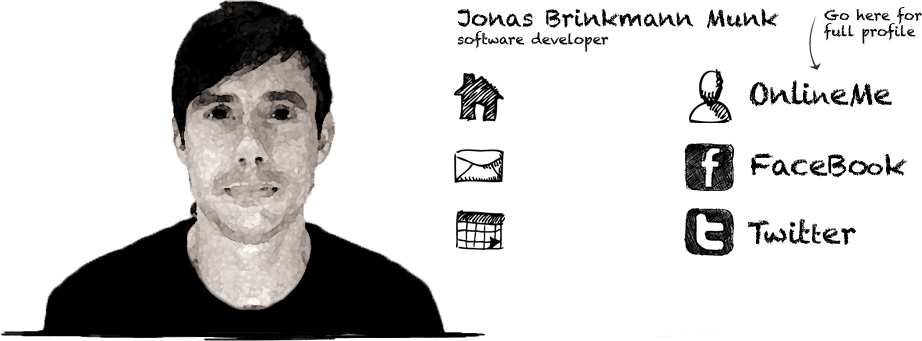
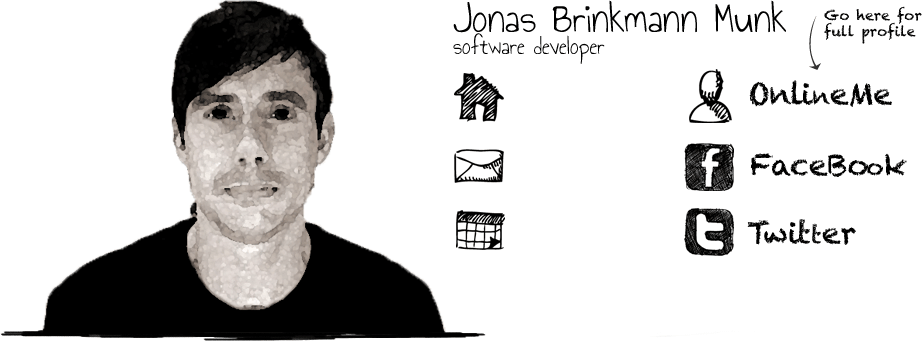
Improved jonas munk design

diff --git a/style/jonasmunk/css/cv.css b/style/jonasmunk/css/cv.css
@@ -1,0 +1,120 @@
+
+
+/*************** CV theme *****************/
+
+body.theme_cv
+{
+	background: url('../gfx/white_plaster.png');
+}
+
+body.theme_cv div.layout
+{
+	width: 964px;
+	background: url('../gfx/white_plaster.png');
+}
+
+body.theme_cv div.layout_top
+{
+	background: url('../gfx/paper.png');
+	height: 26px;
+}
+
+body.theme_cv div.layout_content
+{
+	background: url('../gfx/paper.png') -1928px 0 repeat-y;
+	padding: 20px 40px 40px;
+}
+
+body.theme_cv div.layout_bottom
+{
+	background: url('../gfx/paper.png') -964px 0 no-repeat;
+	height: 220px;
+}
+
+body.theme_cv a.layout_designed
+{
+	height: 181px;
+	width: 162px;
+	background: url('../gfx/handmade.png');
+}
+
+body.theme_cv h1.common,
+body.theme_cv h2.common
+{
+	font-family: 'Annie Use Your Telescope', cursive;
+}
+
+body.theme_cv h3.common,
+body.theme_cv h4.common,
+body.theme_cv h5.common,
+body.theme_cv h6.common,
+body.theme_cv div.part_text,
+body.theme_cv div.part_listing
+{
+	font-family: 'Helvetica Neue','Helvetica',Arial,sans-serif;	
+}
+
+
+body.theme_cv h1.common
+{
+	font-size: 42pt;
+	line-height: 1em;
+}
+
+body.theme_cv h2.common
+{
+	font-size: 28pt;
+	line-height: 1em;
+}
+
+body.theme_cv div.part_section_header_2
+{
+	padding-top: 20px;
+	padding-bottom: 5px;
+}
+
+body.theme_cv div.part_text,
+body.theme_cv div.part_listing
+{
+	font-weight: 300;
+	font-size: 11pt;
+	line-height: 1.4em;
+	color: #333;
+}
+
+body.theme_cv span.part_listing_first
+{
+	font-size: 11pt;
+	font-weight: 400;
+}
+
+
+body.theme_cv ul.layout_navigation_second,
+body.theme_cv ul.layout_navigation_third
+{
+	list-style: none;
+	margin: -10px 0 20px -10px;
+	padding: 0;
+}
+
+body.theme_cv ul.layout_navigation_second li,
+body.theme_cv ul.layout_navigation_third li
+{
+	display: inline-block;
+}
+
+body.theme_cv ul.layout_navigation_second a,
+body.theme_cv ul.layout_navigation_third a
+{
+	text-decoration: none;
+	color: #888;
+	font-size: 12px;
+	padding: 0 10px;
+}
+
+body.theme_cv li.layout_selected a,
+body.theme_cv li.layout_highlighted a
+{
+	font-weight: bold;
+	color: #000;
+}

diff --git a/style/jonasmunk/css/main.css b/style/jonasmunk/css/main.css
@@ -145,85 +145,3 @@ div.layout_content
 	padding: 20px 0 20px 0;
 	overflow: hidden;
 }
-
-/*************** CV theme *****************/
-
-body.theme_cv
-{
-	background: url('../gfx/white_plaster.png');
-}
-
-body.theme_cv div.layout
-{
-	width: 964px;
-	background: url('../gfx/white_plaster.png');
-}
-
-body.theme_cv div.layout_top
-{
-	background: url('../gfx/paper.png');
-	height: 26px;
-}
-
-body.theme_cv div.layout_content
-{
-	background: url('../gfx/paper.png') -1928px 0 repeat-y;
-	padding: 20px 40px;
-}
-
-body.theme_cv div.layout_bottom
-{
-	background: url('../gfx/paper.png') -964px 0 no-repeat;
-	height: 220px;
-}
-
-body.theme_cv a.layout_designed
-{
-	height: 181px;
-	width: 162px;
-	background: url('../gfx/handmade.png');
-}
-
-body.theme_cv h1.common,
-body.theme_cv h2.common
-{
-	font-family: 'Annie Use Your Telescope', cursive;
-}
-
-body.theme_cv h3.common,
-body.theme_cv h4.common,
-body.theme_cv h5.common,
-body.theme_cv h6.common,
-body.theme_cv div.part_text,
-body.theme_cv div.part_listing
-{
-	font-family: 'Helvetica Neue','Helvetica',Arial,sans-serif;	
-}
-
-
-body.theme_cv h1.common
-{
-	font-size: 42pt;
-	line-height: 1em;
-}
-
-body.theme_cv h2.common
-{
-	font-size: 28pt;
-	line-height: 1em;
-}
-
-body.theme_cv div.part_text,
-body.theme_cv div.part_listing
-{
-	font-weight: 300;
-	font-size: 12pt;
-	line-height: 1.3em;
-	color: #333;
-}
-
-body.theme_cv span.part_listing_first
-{
-	font-size: 12pt;
-	font-weight: 500;
-}

diff --git a/style/jonasmunk/css/front.css b/style/jonasmunk/css/front.css
@@ -10,11 +10,11 @@ div.front
 div.front_title
 {
 	position: absolute;
-	background: url('../gfx/front.png') -453px -4px;
+	background: url('../gfx/front.png') -453px 0px;
 	left: 453px;
-	top: 4px;
-	height: 49px;
-	width: 326px;
+	top: -10px;
+	height: 65px;
+	width: 335px;
 	z-index: 1;
 }
 
@@ -29,6 +29,20 @@ div.front_photo
 	position: absolute;
 	width: 488px;
 	height: 341px;
+}
+
+div.front_photo span
+{
+	background: url('../gfx/effect.png');
+	position: absolute;
+	width: 274px;
+	height: 327px;
+	opacity: .5;
+	left: 110px;
+    -webkit-animation-name: effect;
+    -webkit-animation-duration: 3s;
+    -webkit-animation-iteration-count: infinite;
+    -webkit-animation-timing-function: ease-in-out;
 }
 
 div.front ul
@@ -174,7 +188,7 @@ li.front_onlineme em
          opacity: 1;
          -webkit-transform: scale(1) rotate(-5deg);
        }
-       80% {
+       90% {
          opacity: 1;
          -webkit-transform: scale(1) rotate(5deg);
        }
@@ -183,6 +197,23 @@ li.front_onlineme em
          -webkit-transform: scale(.5) rotate(0deg);
        }
       }
-
-      .pulsedbox {
+      @-webkit-keyframes effect {
+       0% {
+         opacity: 0;
+       }
+       40% {
+         opacity: 0;
+       }
+       50% {
+         opacity: 1;
+       }
+       60% {
+         opacity: 1;
+       }
+       90% {
+         opacity: 1;
+       }
+       100% {
+         opacity: 0;
+       }
       }

diff --git a/style/jonasmunk/css/overwrite.css b/style/jonasmunk/css/overwrite.css
@@ -40,3 +40,10 @@ p.common, ul.common
 {
 	font-family: Verdana,Arial,Helvetica,sans-serif;
 }
+
+hr.part_horizontalrule
+{
+	border: none;
+	border-bottom: solid 1px #eee;
+	margin: 10px -20px;
+}

diff --git a/style/jonasmunk/css/style.php b/style/jonasmunk/css/style.php
@@ -3,5 +3,6 @@ header('Content-type: text/css');
 include '../../basic/css/parts.php';
 include 'overwrite.css';
 include 'main.css';
+include 'cv.css';
 include 'front.css';
 ?>
